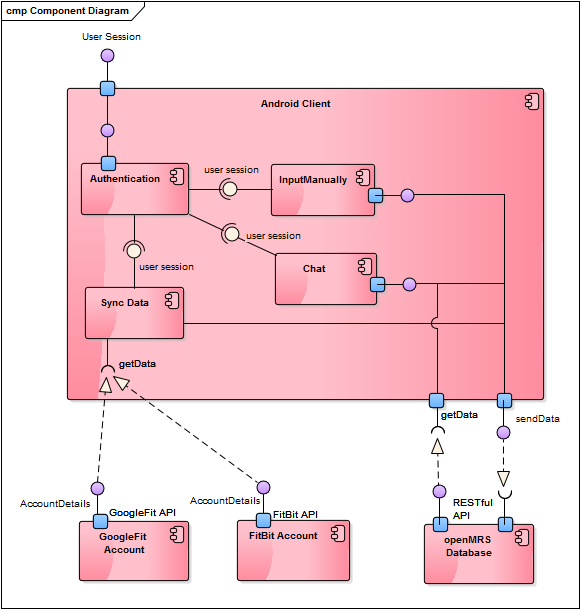
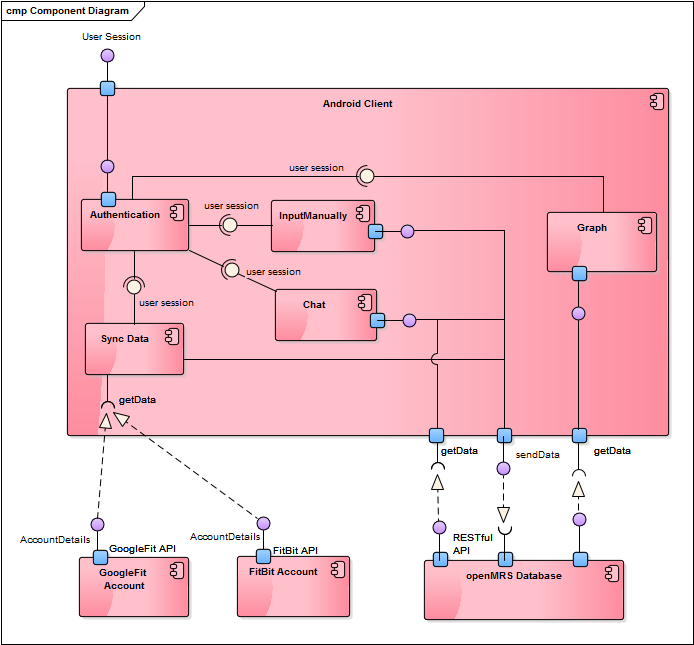
Changed the component diagram and added the User Manual

Changed region(s): [[0.0, 0.0, 1.0, 0.9984], [0.8069, 0.5304, 0.8379, 0.5616], [0.3103, 0.7488, 0.3414, 0.78]]

diff --git a/manual.html b/manual.html
@@ -1,0 +1,195 @@
+<!DOCTYPE html>
+<html lang="en">
+
+<head>
+	<link href="images/favicon.ico" rel="shortcut icon" type="image/x-icon" />
+	
+	<script src="http://code.highcharts.com/adapters/standalone-framework.js"></script>
+	<script src="http://ajax.googleapis.com/ajax/libs/jquery/1.8.2/jquery.min.js"></script>
+	<script src="http://code.highcharts.com/highcharts.js"></script>
+	<script src="https://code.highcharts.com/modules/exporting.js"></script>
+
+
+    <meta charset="utf-8">
+    <meta http-equiv="X-UA-Compatible" content="IE=edge">
+    <meta name="viewport" content="width=device-width, initial-scale=1">
+    <meta name="description" content="Initial Problem Page">
+
+    <title>OpenMRS-Hypertension</title>
+
+    <!-- Bootstrap core CSS -->
+    <link href="dist/css/bootstrap.min.css" rel="stylesheet">
+
+    <!-- Just for debugging purposes. Don't actually copy these 2 lines! -->
+    <!--[if lt IE 9]><script src="../../assets/js/ie8-responsive-file-warning.js"></script><![endif]-->
+    <script src="assets/js/ie-emulation-modes-warning.js"></script>
+
+    <!-- HTML5 shim and Respond.js for IE8 support of HTML5 elements and media queries -->
+    <!--[if lt IE 9]>
+      <script src="https://oss.maxcdn.com/html5shiv/3.7.2/html5shiv.min.js"></script>
+      <script src="https://oss.maxcdn.com/respond/1.4.2/respond.min.js"></script>
+    <![endif]-->
+
+    <!-- Custom styles for this template -->
+    <link href="css/carousel.css" rel="stylesheet">
+	<link href="css/navbar-fixed-top.css" rel="stylesheet">
+	<link href="css/landing-page.css" rel="stylesheet">
+
+
+    <!-- Custom Fonts -->
+    <link href="font-awesome/css/font-awesome.min.css" rel="stylesheet" type="text/css">
+    <link href="http://fonts.googleapis.com/css?family=Lato:300,400,700,300italic,400italic,700italic" rel="stylesheet" type="text/css">
+
+    <!-- HTML5 Shim and Respond.js IE8 support of HTML5 elements and media queries -->
+    <!-- WARNING: Respond.js doesn't work if you view the page via file:// -->
+    <!--[if lt IE 9]>
+        <script src="https://oss.maxcdn.com/libs/html5shiv/3.7.0/html5shiv.js"></script>
+        <script src="https://oss.maxcdn.com/libs/respond.js/1.4.2/respond.min.js"></script>
+    <![endif]-->
+
+</head>
+
+<body>
+
+    <!-- Fixed navbar -->
+    <nav class="navbar navbar-default navbar-fixed-top">
+      <div class="container">
+        <div class="navbar-header">
+          <button type="button" class="navbar-toggle collapsed" data-toggle="collapse" data-target="#navbar" aria-expanded="false" aria-controls="navbar">
+            <span class="sr-only">Toggle navigation</span>
+            <span class="icon-bar"></span>
+            <span class="icon-bar"></span>
+            <span class="icon-bar"></span>
+          </button>
+          <a class="navbar-brand" href="index.html">OpenMRS-Hypertension</a>
+        </div>
+        <div id="navbar" class="navbar-collapse collapse">
+          <ul class="nav navbar-nav">
+            <li><a href="index.html">Home</a></li>
+            <li class="dropdown">
+              <a href="#" class="dropdown-toggle" data-toggle="dropdown" role="button" aria-haspopup="true" aria-expanded="false">Overview <span class="caret"></span></a>
+              <ul class="dropdown-menu">
+                <li><a href="#">Initial Problem</a></li>
+                <li><a href="client.html">Client</a></li>
+              </ul>
+            </li>
+			
+			<li><a href="project_management.html">Project Management</a></li>
+			
+			<li class="dropdown">
+              <a href="#" class="dropdown-toggle" data-toggle="dropdown" role="button" aria-haspopup="true" aria-expanded="false">Analysis <span class="caret"></span></a>
+              <ul class="dropdown-menu">
+                <li><a href="requirement.html">Requirement</a></li>
+                <li><a href="research.html">Research</a></li>
+                <li><a href="system.html">Architectural Diagrams</a></li>
+                <li><a href="designpatterns.html">Design Patterns</a></li>
+                <li><a href="usecases.html">Use Cases</a></li>
+				<li><a href="personas.html">User Personas</a></li>
+              </ul>
+            </li>
+			
+			<li><a href="tools.html">Tools</a></li>
+			<li><a href="design.html">Design</a></li>
+			
+              <li class="dropdown">
+              <a href="development.html" class="dropdown-toggle" data-toggle="dropdown" role="button" aria-haspopup="true" aria-expanded="false">Development <span class="caret"></span></a>
+              <ul class="dropdown-menu">
+                <li><a href="development.html">Development</a></li>
+                <li><a href="deployment.html">Deployment</a></li>
+                <li><a href="testing.html">Testing</a></li>
+                <li><a href="testing_strategy.html">Testing Strategy</a></li>
+                <li><a href="manual.html"></i>Manual</i></a></li>
+              </ul>
+            </li>
+			
+			<li><a href="https://github.com/DianaD96/Team13AndroidClient"><i class="fa fa-github fa-fw"></i>Git Repo</i></a></li>
+			<li><a href="http://group13.freeforums.org/"></i>Forums</i></a></li>
+			   
+
+          </ul>
+        </div><!--/.nav-collapse -->
+      </div>
+    </nav>
+
+
+    <!-- Page Content -->
+
+    <div class="content-section-a">
+
+        <div class="container">
+            <div class="row">
+			
+                <div class="col-lg-10 col-sm-6 col-lg-offset-1">
+                    <div class="clearfix"></div>
+                     <h2 class="content-heading">MANUALS</h2>
+
+						<p class="">This section contains the system and user manuals.</p>
+						
+                        <p class="section-subheading-left"> <b> <font color="#15317E">USER MANUAL</b> </font>
+                        <p class="" align="left"> <b> <font color="#15317E"> LOG IN PAGE </font> </b></p>
+                        <p class="" align="left">In order to log in, the user has to enter their uuid (which is a unique identifier for every patient; the uuid is provided when a new user completed registration) and press "Sumbit" which will redirect the patient to the "Dashboard Page". Attempting to complete the log in without providing an uuid will authenticate the user as a "test user".</p>
+                       <p class="" align="left"> <b> <font color="#15317E"> REGISTER PAGE </font> </b></p>
+                       <p class="" align="left">In order to register the user has to press the "Register New Patient" button on the Log In Page that will redirect them to the Registration Page where the user needs to complete the provided blanks with their given name, family name, gender and hospital location. The user has to press the "Register" button which will complete the registration by saving the completed fields in the OpenMRS database and return a unique identifier (uuid) which the user is asked to keep safe for future logins. After registration, the user will be redirected to the "Dashboard" Page as the newly registered patient.</p>
+                        <p class="" align="left"> <b> <font color="#15317E"> DASHBOARD PAGE </font> </b></p>
+                        <p class="" align="left"> The "Dashboard" Page displays the application menu at the bottom of the page ("Input", "Graph", "Chat") as well as the image buttons to input their nutrition/activity/heart rate logs which are labeled as "Food", "Exercise", "Heart Rate", "Height&Weight" and "Sync Data". Clicking any of them will redirect the user to the specific page. The "Dashboard" Page also provides a drop-down menu with 2 tabs: "Profile" Page tab that will redirect the user to the Profile Page and the "Log out" tab that will sign out the user.</p>
+                        <p class="" align="left"> <b> <font color="#15317E"> FOOD PAGE </font> </b></p>
+                        <p class="" align="left"> The "Food" Page provides 3 cardviews for each meal of the day: breakfast, lunch and dinner. By clicking any of them will redirect the user to the "Nutrition Log" Page where they can search for any type of food (option implemented using the FatSecret API), check any food options and press OK which will redirect the user back to the "Food" Page and calculate the total number of calories for the provided meal which will be added to the total number of calories (which the calories counter above the "Sumbit" button). When the user has chosen all the meals they want to save, they will press the "Submit" button which will send the total number of calories to the OpenMRS database and redirect the user back to the "Dashboard" Page. </p>
+                        <p class="" align="left"> <b> <font color="#15317E"> EXERCISE PAGE </font> </b></p>
+                        <p class="" align="left"> The "Exercise" Page is similar to the "Food" Page in a way that the user will be provded with 5 card views to write down their activity log ("calories burned", "distance covered", "total steps", "floors climed", "active minutes"). After completing the required fields, the user can press the "Submit" button to save the data to the OpenMRS database.</p>
+                        <p class="" align="left"> <b> <font color="#15317E"> HEART RATE PAGE </font> </b></p>
+                        <p class="" align="left"> The "Heart Rate" Page provides a single cardview for the user to input their BMP (beats per minute) value. By pressing the "Submit" button, the data will be saved to the database.</p>
+                        <p class="" align="left"> <b> <font color="#15317E"> HEIGHT/WEIGHT PAGE </font> </b></p>
+                        <p class="" align="left"> The "Height/Weight" Page provides 2 cardviews, one for height input and the other one for weight input. After completing the views, the user can press the "Submit" button to save the data.</p>
+                        <p class="" align="left"> <b> <font color="#15317E"> SYNC DATA PAGE </font> </b></p>
+                        <p class="" align="left"> The "SYNC DATA" Page provides 2 buttons one for synchronisation with the GoogleFit android client and the other one for synchronisation with the FitBitHR Smartwatch. Both of them will ask the user for log in credentials and ask for permission to sync with the OpenMRS-Hypertension client.</p>
+                    
+                     <p class="" align="left"> <b> <font color="#15317E"> GRAPH PAGE </font> </b></p>
+                     <p class="" align="left"> The "GRAPH DATA" Page displays an overview of the patient's condition: a graph that shows the number of steps the user did in the last 5 days as well as his average heart rate, target heart rate, abnormalities, BMI and an average of their daily exercise (measured in minutes). To refresh the data the user can pull down the page which will fetch the data from the OpenMRS database. /p>
+                     <p class="" align="left"> <b> <font color="#15317E"> CHAT PAGE </font> </b></p>
+                     <p class="" align="left"> Before proceeding to the "Chat" Page the user will be asked to introduce their doctor's name. If no name will be provided, a test doctor will be used instead. After typing in their doctor's name and pressing the "Submit" button, the user will be redirected to the "Chat" Page where they can see the last conversation they had with their doctor. To send a new message, the user has to complete the blank space at the bottom of the page a press "Send". A notification option is also available which will let the patient know if they have a new message.</p>
+
+                    </p>
+                </div>
+            </div>
+        </div>
+    </div>
+
+	    <!-- Footer -->
+		<footer class="footer">
+			<div class="container">
+				<div class="row">
+					<div class="col-lg-12">
+						<ul class="list-inline">
+							<li>
+								<a href="index.html">Home</a>
+							</li>
+						
+							<li class="pull-right">
+								<a href="#">Back to top</a>
+							</li>
+						</ul>
+					
+						<ul class="list-inline">
+							<li class="copyright text-muted small">Copyright &copy; System Engineering Project Team 13</li>
+						</ul>
+					</div>
+				</div>
+			</div>
+		</footer>
+
+    <!-- jQuery -->
+    <script src="assets/js/jquery.js"></script>
+
+    <!-- Bootstrap core JavaScript
+    ================================================== -->
+    <!-- Placed at the end of the document so the pages load faster -->
+    <script src="https://ajax.googleapis.com/ajax/libs/jquery/1.11.3/jquery.min.js"></script>
+    <script src="dist/js/bootstrap.min.js"></script>
+    <!-- Just to make our placeholder images work. Don't actually copy the next line! -->
+    <script src="assets/js/vendor/holder.min.js"></script>
+    <!-- IE10 viewport hack for Surface/desktop Windows 8 bug -->
+    <script src="assets/js/ie10-viewport-bug-workaround.js"></script>
+
+</body>
+
+</html>

diff --git a/index.html b/index.html
@@ -93,9 +93,10 @@
                 <li><a href="deployment.html">Deployment</a></li>
                 <li><a href="testing.html">Testing</a></li>
                 <li><a href="testing_strategy.html">Testing Strategy</a></li>
+                 <li><a href="manual.html"></i>Manual</i></a></li>
               </ul>
             </li>
-			
+              			
 			<li><a href="https://github.com/DianaD96/Team13AndroidClient"><i class="fa fa-github fa-fw"></i>Git Repo</i></a></li>
 			<li><a href="http://group13.freeforums.org/"></i>Forums</i></a></li>
 			            

diff --git a/client.html b/client.html
@@ -92,9 +92,11 @@
                 <li><a href="deployment.html">Deployment</a></li>
                 <li><a href="testing.html">Testing</a></li>
                 <li><a href="testing_strategy.html">Testing Strategy</a></li>
+                <li><a href="manual.html"></i>Manual</i></a></li>
               </ul>
             </li>
 			
+              
 			<li><a href="https://github.com/DianaD96/Team13AndroidClient"><i class="fa fa-github fa-fw"></i>Git Repo</i></a></li>
 			<li><a href="http://group13.freeforums.org/"></i>Forums</i></a></li>
 			   

diff --git a/testing_strategy.html b/testing_strategy.html
@@ -93,6 +93,7 @@
                 <li><a href="deployment.html">Deployment</a></li>
                 <li><a href="testing.html">Testing</a></li>
                 <li><a href="testing_strategy.html">Testing Strategy</a></li>
+                <li><a href="manual.html"></i>Manual</i></a></li>
               </ul>
             </li>
             

diff --git a/design.html b/design.html
@@ -104,6 +104,7 @@
                 <li><a href="deployment.html">Deployment</a></li>
                 <li><a href="testing.html">Testing</a></li>
                 <li><a href="testing_strategy.html">Testing Strategy</a></li>
+                <li><a href="manual.html"></i>Manual</i></a></li>
               </ul>
             </li>
 			

diff --git a/designpatterns.html b/designpatterns.html
@@ -100,6 +100,7 @@
                 <li><a href="deployment.html">Deployment</a></li>
                 <li><a href="testing.html">Testing</a></li>
                 <li><a href="testing_strategy.html">Testing Strategy</a></li>
+                <li><a href="manual.html"></i>Manual</i></a></li>
               </ul>
             </li>
 			

diff --git a/system.html b/system.html
@@ -100,6 +100,7 @@
                 <li><a href="deployment.html">Deployment</a></li>
                 <li><a href="testing.html">Testing</a></li>
                 <li><a href="testing_strategy.html">Testing Strategy</a></li>
+                <li><a href="manual.html"></i>Manual</i></a></li>
               </ul>
             </li>
 			

diff --git a/development.html b/development.html
@@ -91,6 +91,7 @@
                 <li><a href="deployment.html">Deployment</a></li>
                 <li><a href="testing.html">Testing</a></li>
                 <li><a href="testing_strategy.html">Testing Strategy</a></li>
+                <li><a href="manual.html"></i>Manual</i></a></li>
               </ul>
             </li>
 			

diff --git a/initial_problem.html b/initial_problem.html
@@ -98,6 +98,7 @@
                 <li><a href="deployment.html">Deployment</a></li>
                 <li><a href="testing.html">Testing</a></li>
                 <li><a href="testing_strategy.html">Testing Strategy</a></li>
+                <li><a href="manual.html"></i>Manual</i></a></li>
               </ul>
             </li>
 			

diff --git a/mobileapps.html b/mobileapps.html
@@ -93,6 +93,7 @@
                 <li><a href="deployment.html">Deployment</a></li>
                 <li><a href="testing.html">Testing</a></li>
                 <li><a href="testing_strategy.html">Testing Strategy</a></li>
+                <li><a href="manual.html"></i>Manual</i></a></li>
               </ul>
             </li>
 			

diff --git a/mobileusecases.html b/mobileusecases.html
@@ -91,6 +91,7 @@
                 <li><a href="deployment.html">Deployment</a></li>
                 <li><a href="testing.html">Testing</a></li>
                 <li><a href="testing_strategy.html">Testing Strategy</a></li>
+                <li><a href="manual.html"></i>Manual</i></a></li>
               </ul>
             </li>
 			

diff --git a/personas.html b/personas.html
@@ -92,6 +92,7 @@
                 <li><a href="deployment.html">Deployment</a></li>
                 <li><a href="testing.html">Testing</a></li>
                 <li><a href="testing_strategy.html">Testing Strategy</a></li>
+                <li><a href="manual.html"></i>Manual</i></a></li>
               </ul>
             </li>
 			
